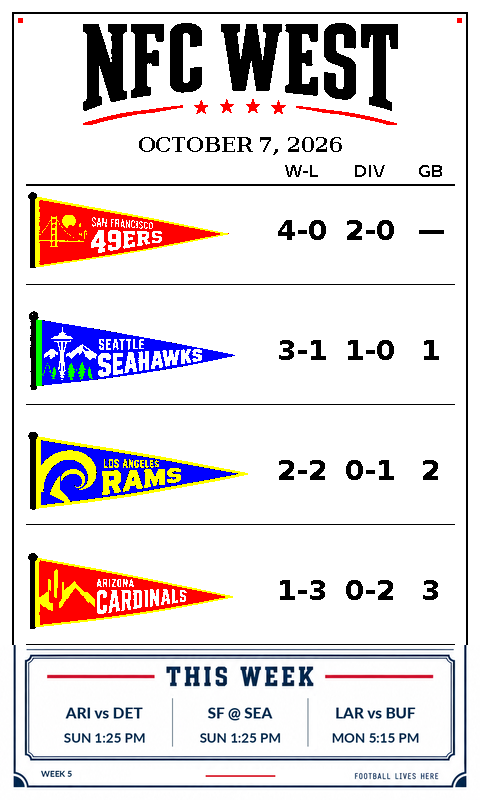
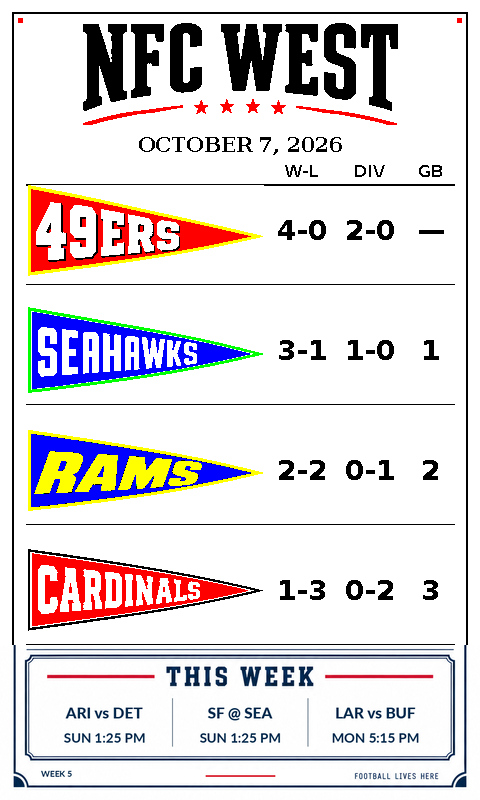
Serve styled text pennants at the existing NFC West image URL

diff --git a/nfl.html b/nfl.html
@@ -30,8 +30,7 @@
     <section class="card">
       <img id="display" src="public/nfl_nfc_west.png" alt="NFC West standings e-paper display" width="480" height="800">
       <nav>
-        <a href="public/nfl_nfc_west.png">Illustrated PNG</a>
-        <a href="public/nfl_nfc_west_text.png">Text-only PNG</a>
+        <a href="public/nfl_nfc_west.png">Open PNG</a>
         <a href="https://github.com/Dave356w/sports-display-renderer">Repository</a>
       </nav>
       <div class="meta">The image is regenerated automatically by GitHub Actions.</div>

diff --git a/render_nfl.py b/render_nfl.py
@@ -489,13 +489,13 @@ def main():
         when = f"{game['dt']:%a %Y-%m-%d %-I:%M %p %Z}"
         print(f"  {matchup_label(game):12s} {status_label(game):16s} {when}")
 
-    output = render(standings, week, schedule, now)
+    output = render(standings, week, schedule, now, pennant_style="text")
     OUT.parent.mkdir(parents=True, exist_ok=True)
     output.save(OUT, format="PNG", optimize=True)
     print(f"Wrote {OUT} ({output.size[0]}x{output.size[1]})")
-    # Keep the text-only exploration current using the exact same data snapshot.
+    # Retain the exploration URL as an identical alias for existing clients.
     text_out = OUT.with_name("nfl_nfc_west_text.png")
-    render(standings, week, schedule, now, pennant_style="text").save(text_out, format="PNG", optimize=True)
+    output.save(text_out, format="PNG", optimize=True)
     print(f"Wrote {text_out}")
 
 

diff --git a/README.md b/README.md
@@ -39,7 +39,7 @@ Artwork lives in `assets/nfl/`: `background.png` (971x1619 master) plus one 2172
 - Updated artwork uses six nominal encoding colors: black, white, red, green, blue, yellow. These are not measured physical ink colors. Dark team blues/reds are mapped by hue so a nearest-RGB conversion does not erase the pennants into black.
 - White background, solid black numbers, 1–2px rules and a 12px outer margin.
 - Long/tied standings records fit their own column without overlapping. The This Week layout is unchanged.
-- Two outputs share one data snapshot: `public/nfl_nfc_west.png` (illustrated) and `public/nfl_nfc_west_text.png` (text-only exploration). The existing page keeps the illustrated version as its default.
+- The styled text-only pennants are the default at `public/nfl_nfc_west.png`, so existing display configurations use the new artwork. `public/nfl_nfc_west_text.png` remains an identical alias. The original illustrated assets remain available in `assets/nfl/`.
 
 Display the PNG at 1:1 resolution. In the device/content software, avoid additional smoothing, resizing, or dithering where configurable. If firmware expects a landscape 800x480 buffer, rotate the portrait image by 90 degrees without resampling rather than stretching it. Actual contrast and colors still need a check on the physical screen.
 
